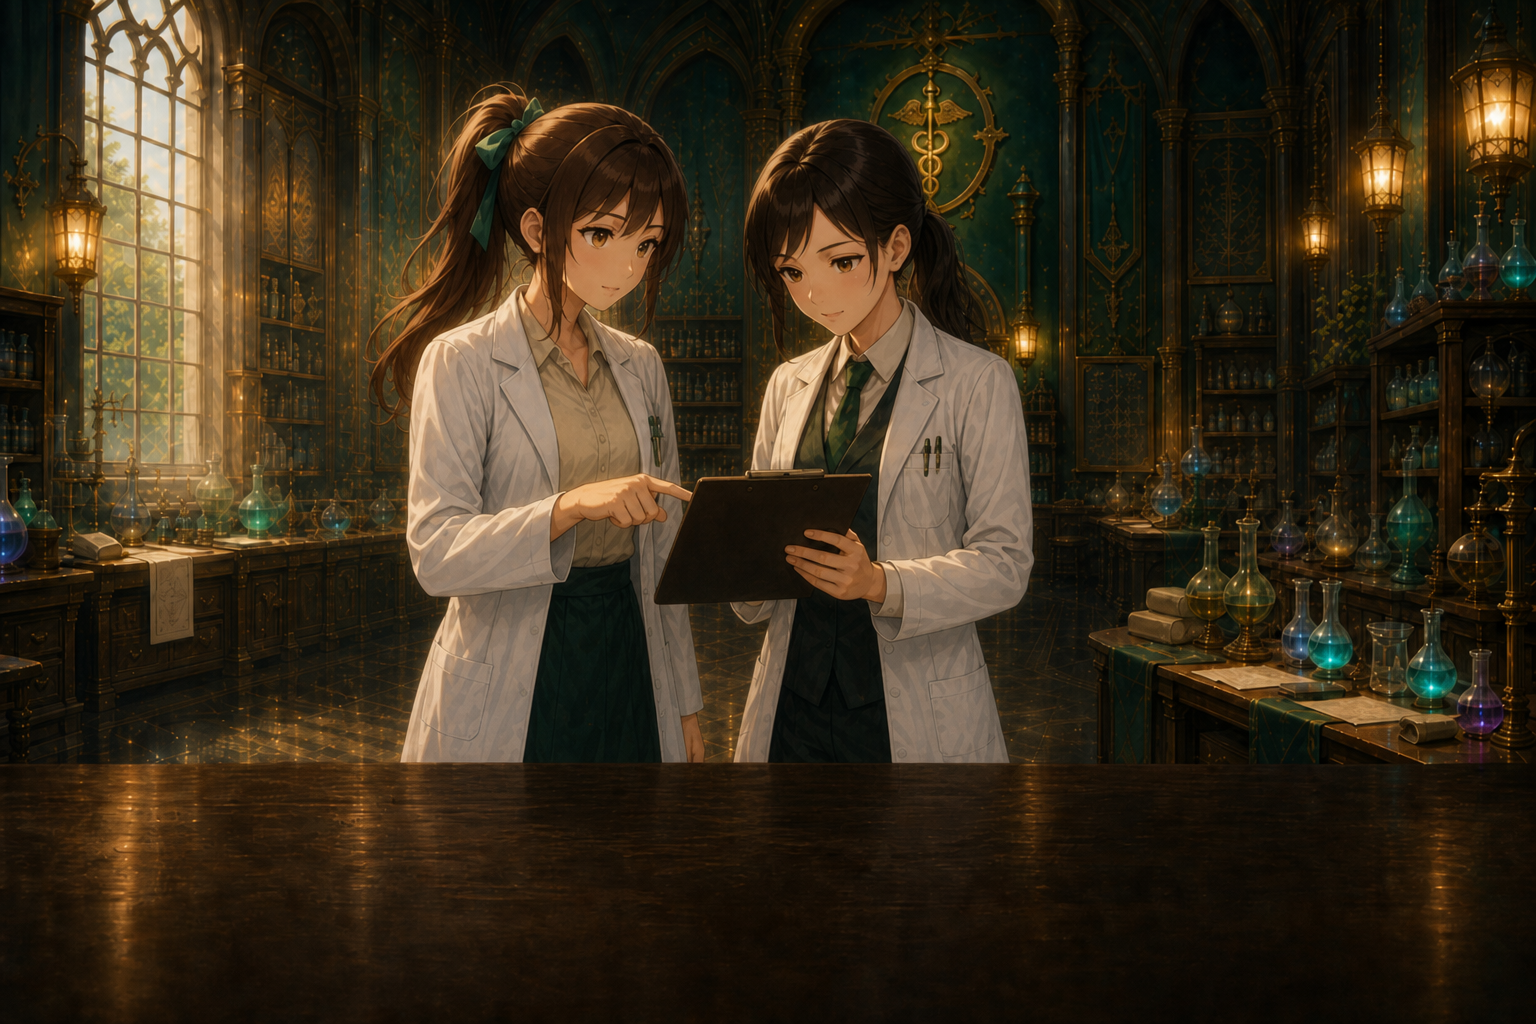
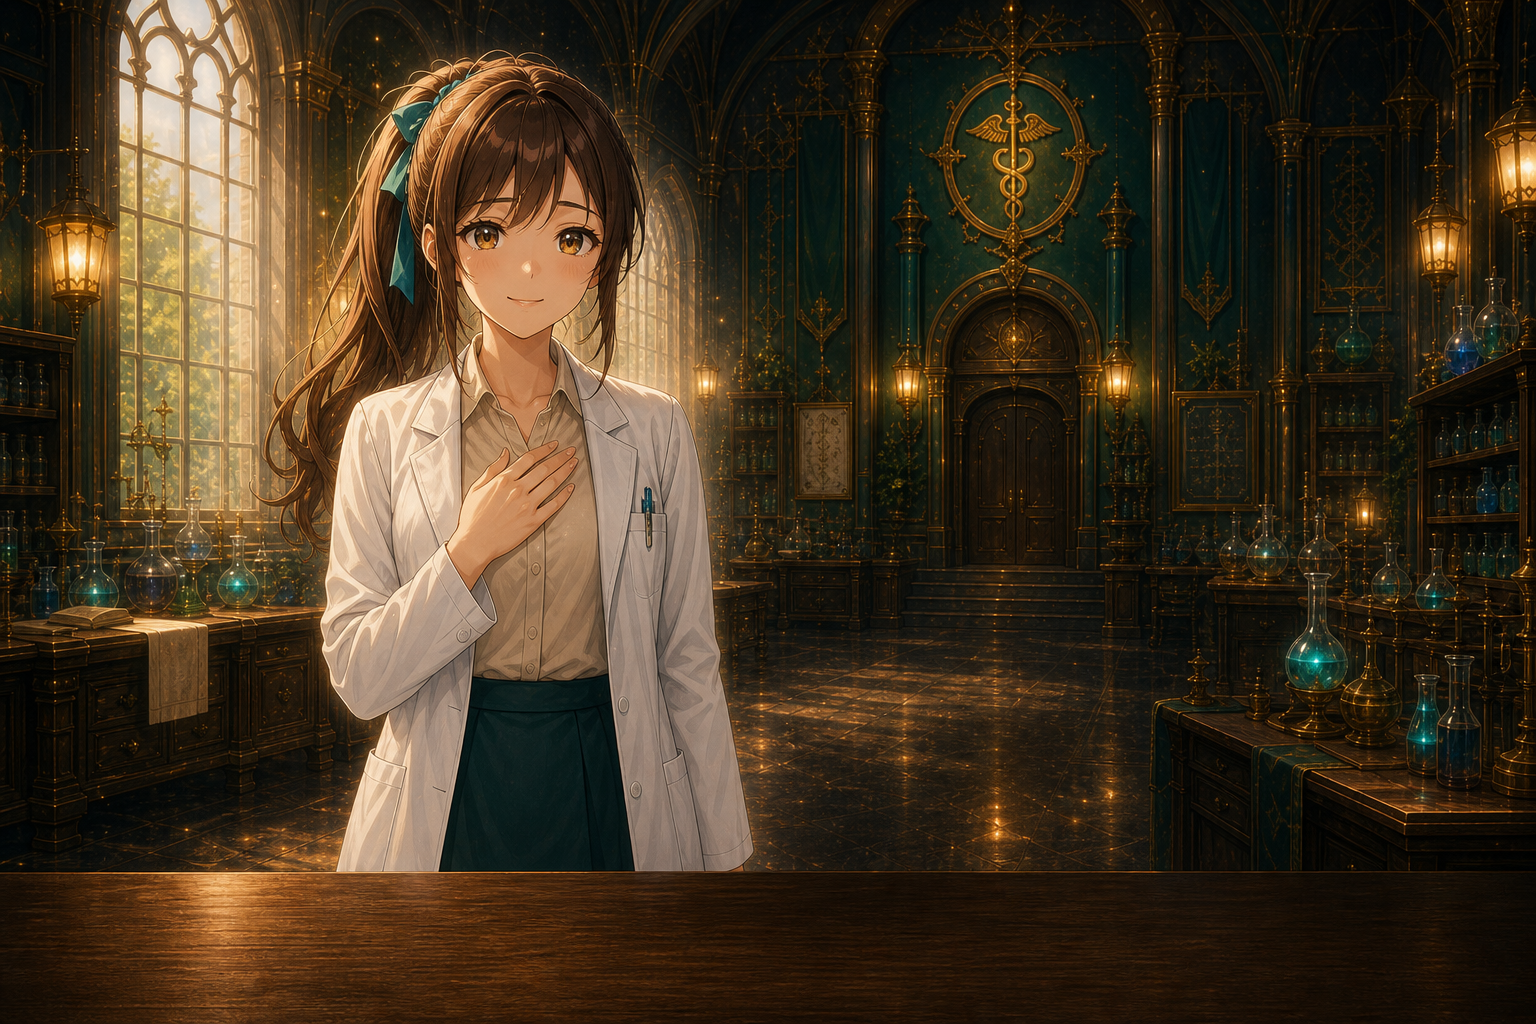
Redraw epilogue so Aspia thanks the player (#25)
Replace the junior-teaching scene with Aspia alone, looking at
the camera with a grateful address after the journey together.

diff --git a/src/lib/dialogueBackgrounds.ts b/src/lib/dialogueBackgrounds.ts
@@ -16,7 +16,7 @@ export const DIALOGUE_BACKGROUNDS: DialogueBackground[] = [
   { id: 'corridor', label: '廊下', src: '/art/quest-dialogue-bg-corridor.png' },
   // プロローグ「小さな声」用。会話UIに立ち絵レイヤがないため、見習いアスピアを絵の中に入れている。
   { id: 'prologue', label: 'プロローグ（アスピア）', src: '/art/quest-dialogue-bg-prologue.png' },
-  // エピローグ用。立派な技師になったアスピアが、ほぼ同身長の後輩と資料を一緒に見ている場面。
+  // エピローグ用。立派な技師になったアスピアが、プレイヤーへ「ありがとう」と語りかける場面。
   { id: 'epilogue', label: 'エピローグ（アスピア）', src: '/art/quest-dialogue-bg-epilogue.png' },
   // エピローグ直後の映画エンドカード。「Fin.」を絵の中に入れている。
   { id: 'fin', label: 'Fin.', src: '/art/quest-dialogue-bg-fin.png' },
